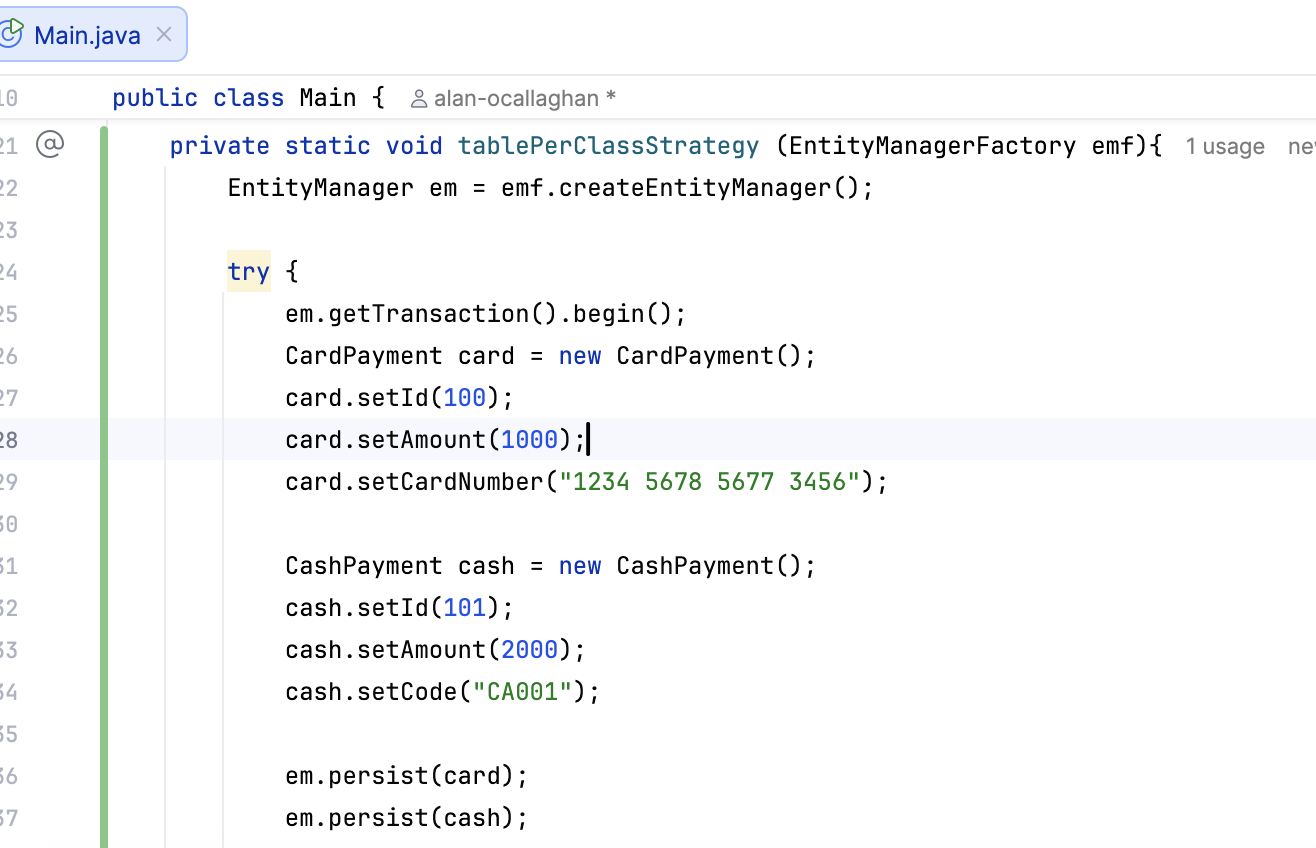
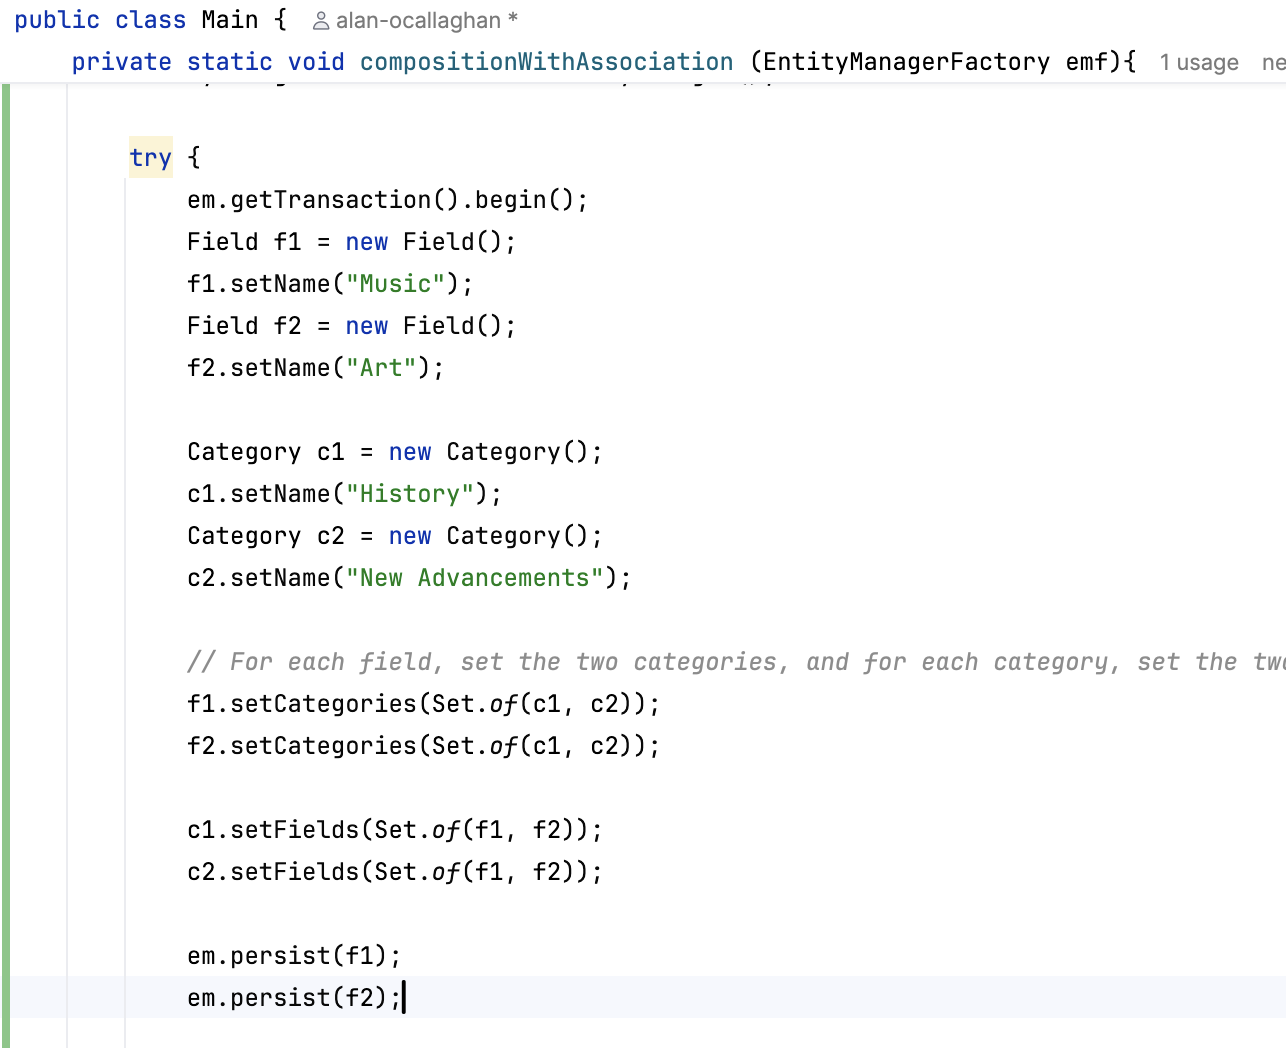
composition_association

diff --git a/src/main/java/com/example/linkedinsamarakkody/jakarta/Main.java b/src/main/java/com/example/linkedinsamarakkody/jakarta/Main.java
@@ -6,18 +6,77 @@ import jakarta.persistence.EntityManagerFactory;
 import jakarta.persistence.Persistence;
 
 import java.util.List;
+import java.util.Set;
 
 public class Main {
     public static void main(String[] args) {
         EntityManagerFactory emf = Persistence.createEntityManagerFactory("library_persistence_unit");
-        //oneToManyRelationship(emf);
-        //manyToManyRelationship(emf);
-        //mappedSuperclassStrategy(emf);
-        //singleTableStrategy(emf);
-        //joinedTableStrategy(emf);
-        tablePerClassStrategy(emf);
+        try {
+            //oneToManyRelationship(emf);
+            //manyToManyRelationship(emf);
+            //mappedSuperclassStrategy(emf);
+            //singleTableStrategy(emf);
+            //joinedTableStrategy(emf);
+            //tablePerClassStrategy(emf);
+            compositionWithAssociation(emf);
+        } finally {
+            emf.close();
+        }
     }
 
+    private static void compositionWithAssociation (EntityManagerFactory emf){
+        EntityManager em = emf.createEntityManager();
+
+        try {
+            em.getTransaction().begin();
+            Field f1 = new Field();
+            f1.setName("Music");
+            Field f2 = new Field();
+            f2.setName("Art");
+
+            Category c1 = new Category();
+            c1.setName("History");
+            Category c2 = new Category();
+            c2.setName("New Advancements");
+
+            // For each field, set the two categories, and for each category, set the two fields.
+            f1.setCategories(Set.of(c1, c2));
+            f2.setCategories(Set.of(c1, c2));
+
+            c1.setFields(Set.of(f1, f2));
+            c2.setFields(Set.of(f1, f2));
+
+            em.persist(f1);
+            em.persist(f2);
+
+            em.getTransaction().commit();
+
+            // Verify data
+            System.out.println("--- Verification ---");
+            List<Field> fields = em.createQuery("select f from Field f", Field.class).getResultList();
+            System.out.println("Total fields found: " + fields.size());
+            for (Field f : fields) {
+                System.out.println("Field: " + f.getName() + ", Categories: " +
+                        f.getCategories().stream().map(Category::getName).toList());
+            }
+
+            List<Category> categories = em.createQuery("select c from Category c", Category.class).getResultList();
+            System.out.println("Total categories found: " + categories.size());
+            for (Category c : categories) {
+                System.out.println("Category: " + c.getName() + ", Fields: " +
+                        c.getFields().stream().map(Field::getName).toList());
+            }
+
+        } catch (Exception e) {
+            if (em.getTransaction().isActive()) {
+                em.getTransaction().rollback();
+            }
+            e.printStackTrace();
+        } finally {
+            em.close();
+        }
+
+    }
     private static void tablePerClassStrategy (EntityManagerFactory emf){
         EntityManager em = emf.createEntityManager();
 

diff --git a/src/main/java/com/example/linkedinsamarakkody/jakarta/entities/Field.java b/src/main/java/com/example/linkedinsamarakkody/jakarta/entities/Field.java
@@ -1,0 +1,46 @@
+package com.example.linkedinsamarakkody.jakarta.entities;
+
+import jakarta.persistence.*;
+
+import java.util.Set;
+
+@Entity
+@Table(name = "field")
+public class Field {
+    @Id
+    @GeneratedValue(strategy = GenerationType.IDENTITY)
+    @Column(name = "field_id")
+    private int id;
+
+    @Column(name = "field_name")
+    private String name;
+
+    @ManyToMany(cascade = CascadeType.ALL)
+    @JoinTable(name = "field_category", joinColumns = @JoinColumn(name = "field_id"), inverseJoinColumns = @JoinColumn(name = "category_id"))
+    private Set<Category> categories;
+
+    public int getId() {
+        return id;
+    }
+
+    public void setId(int id) {
+        this.id = id;
+    }
+
+    public String getName() {
+        return name;
+    }
+
+    public void setName(String name) {
+        this.name = name;
+    }
+
+    public Set<Category> getCategories() {
+        return categories;
+    }
+
+    public void setCategories(Set<Category> categories) {
+        this.categories = categories;
+    }
+}
+

diff --git a/src/main/java/com/example/linkedinsamarakkody/jakarta/entities/Category.java b/src/main/java/com/example/linkedinsamarakkody/jakarta/entities/Category.java
@@ -1,0 +1,44 @@
+package com.example.linkedinsamarakkody.jakarta.entities;
+
+import jakarta.persistence.*;
+import java.util.Set;
+
+@Entity
+@Table(name = "category")
+public class Category {
+
+    @Id
+    @GeneratedValue(strategy = GenerationType.IDENTITY)
+    @Column(name = "category_id")
+    private int id;
+
+    @Column(name = "category_name")
+    private String name;
+
+    @ManyToMany(mappedBy = "categories")
+    private Set<Field> fields;
+
+    public int getId() {
+        return id;
+    }
+
+    public void setId(int id) {
+        this.id = id;
+    }
+
+    public Set<Field> getFields() {
+        return fields;
+    }
+
+    public void setFields(Set<Field> fields) {
+        this.fields = fields;
+    }
+
+    public String getName() {
+        return name;
+    }
+
+    public void setName(String name) {
+        this.name = name;
+    }
+}

diff --git a/README.md b/README.md
@@ -13,10 +13,10 @@ mariadb -u root -p < sql/mariadb-init.sql
 ### 2. Run as Standalone Application (Quick Test) 
 run a standalone `Main` class to verify the JPA integration and database connection:
 
-This will:
-- A union happens by combining all child tables and data persist to child tables only `card` and `cash`.
-- AUTO_INCREMENT is not supported across all child tables when using the `table per class` strategy.
 - 
+- `Field` entity is the owner of the many-to-many relationship hence persist `Field instances` in the `Main`
+- specify the `@JoinTable` annotation to define the join table for the many-to-many relationship in the `Field` entity.
+
 ## Dependencies
 - `hibernate-core`: ORM framework Hibernate.
 - `mariadb-java-client`: JDBC driver for MariaDB.
